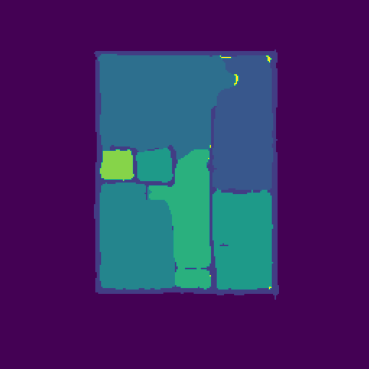
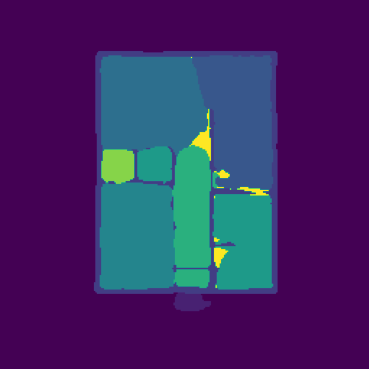
Correctly labeled renders and renderer now features a legend

diff --git a/tool/reconstruction/Renderer.py b/tool/reconstruction/Renderer.py
@@ -1,7 +1,8 @@
 import sys
 
 from PyQt5.QtWidgets import QApplication, QMainWindow, QOpenGLWidget, QVBoxLayout, QPushButton, QWidget
-from PyQt5.QtGui import QFont, QPainter  # Import QFont and QPainter
+from PyQt5.QtGui import QFont, QPainter, QColor  # Import QFont and QPainter
+from PyQt5.QtCore import Qt  # Import Qt constants
 from OpenGL.GL import *
 from OpenGL.GLU import *
 
@@ -25,10 +26,73 @@ class FloorPlanViewer(QOpenGLWidget):
         self.last_y = 0
         self.display_list = None
         self.offset_factor = 1.0
-    
+        self.zoom_factor = 1.0
+        self.pos_x = 0.0
+        self.pos_y = -25.0
+        self.pos_z = -1000.0
+        self.move_speed = 10.0
+
+        self.room_legend = [
+            ("Background", (0, 0, 0)),
+            ("Outdoor", (0.5, 0.5, 0.5)),
+            ("Wall", (0.8, 0.8, 0.8)),
+            ("Kitchen", (1, 1, 0)),
+            ("Living Room", (0, 1, 0)),
+            ("Bed Room", (1, 0, 0)),
+            ("Bath", (0, 0, 1)),
+            ("Entry", (1, 0, 1)),
+            ("Railing", (0.5, 0, 0.5)),
+            ("Storage", (0.7, 0.7, 0)),
+            ("Garage", (0.2, 0.2, 0.2)),
+            ("Undefined", (0, 1, 1)),
+        ]
+
+        self.icon_legend = [
+            ("No Icon", (0, 0, 0)),
+            ("Window", (0, 1, 1)),
+            ("Door", (0, 150/255, 75/255)),
+            ("Closet", (0, 0, 1)),
+            ("Electrical Applience", (1, 1, 0)),
+            ("Toilet", (1, 0, 1)),
+            ("Sink", (1, 1, 1)),
+            ("Sauna Bench", (0.5, 0.5, 0.5)),
+            ("Fire Place", (1, 0.5, 0)),
+            ("Bathtub", (0.9, 0.9, 0.9)),
+            ("Chimney", (0, 0.5, 1)),
+        ]
+
+        self.setFocusPolicy(Qt.StrongFocus)
+        self.setFocus()
+
+    def keyPressEvent(self, event):
+        key = event.key()
+        if key == Qt.Key_W:  # Move forward
+            self.pos_z += self.move_speed
+        elif key == Qt.Key_S:  # Move backward
+            self.pos_z -= self.move_speed
+        elif key == Qt.Key_A:  # Move left
+            self.pos_x += self.move_speed
+        elif key == Qt.Key_D:  # Move right
+            self.pos_x -= self.move_speed
+
+        self.update()
+    def wheelEvent(self, event):
+        delta = event.angleDelta().y()  # Get the scroll amount
+        if delta > 0:
+            self.zoom_factor /= 1.1  # Zoom in
+        else:
+            self.zoom_factor *= 1.1  # Zoom out
+
+        self.update()  # Trigger a repaint
+
     def initializeGL(self):
         glEnable(GL_DEPTH_TEST)
+        glDepthFunc(GL_LEQUAL)  # Accept fragment if it is closer to the camera
+        glClearDepth(1.0)       # Set the farthest depth value
+        glEnable(GL_BLEND)      # Enable transparency for QPainter
+        glBlendFunc(GL_SRC_ALPHA, GL_ONE_MINUS_SRC_ALPHA)
         self.create_display_list()
+
 
     def create_display_list(self):
         self.display_list = glGenLists(1)
@@ -94,11 +158,61 @@ class FloorPlanViewer(QOpenGLWidget):
                 self.draw_wall(wall)
         
         glEndList()
+        
+    def paintEvent(self, event):
+        super().paintEvent(event)  # Render OpenGL content first
+
+        glDisable(GL_DEPTH_TEST)  # Disable depth testing for 2D elements
+
+        painter = QPainter(self)
+        painter.setRenderHint(QPainter.Antialiasing)
+
+        # Draw the room legend (top-right)
+        margin = 10
+        room_x = self.width() - 200 - margin
+        room_y = margin
+        painter.setBrush(Qt.white)
+        painter.setOpacity(0.8)
+        painter.drawRect(
+            room_x - margin, 
+            room_y - margin, 
+            200 + 2 * margin, 
+            len(self.room_legend) * 25 + 2 * margin
+        )
+        painter.setOpacity(1.0)
+        for i, (name, color) in enumerate(self.room_legend):
+            painter.setBrush(QColor(*(int(c * 255) for c in color)))
+            painter.drawRect(room_x, room_y + i * 25, 20, 20)
+            painter.setPen(Qt.black)
+            painter.drawText(room_x + 30, room_y + i * 25 + 15, name)
+
+        # Draw the icon legend (top-left)
+        icon_x = margin
+        icon_y = margin
+        painter.setBrush(Qt.white)
+        painter.setOpacity(0.8)
+        painter.drawRect(
+            icon_x - margin, 
+            icon_y - margin, 
+            200 + 2 * margin, 
+            len(self.icon_legend) * 25 + 2 * margin
+        )
+        painter.setOpacity(1.0)
+        for i, (name, color) in enumerate(self.icon_legend):
+            painter.setBrush(QColor(*(int(c * 255) for c in color)))
+            painter.drawRect(icon_x, icon_y + i * 25, 20, 20)
+            painter.setPen(Qt.black)
+            painter.drawText(icon_x + 30, icon_y + i * 25 + 15, name)
+
+        painter.end()
+
+        glEnable(GL_DEPTH_TEST)  # Re-enable depth testing
+
 
     def paintGL(self):
         glClear(GL_COLOR_BUFFER_BIT | GL_DEPTH_BUFFER_BIT)
         glLoadIdentity()
-        glTranslatef(0, -25, -1000)
+        glTranslatef(self.pos_x, self.pos_y, self.pos_z * self.zoom_factor)  # Use position and zoom factor
         glRotatef(self.rot_x, 1, 0, 0)
         glRotatef(self.rot_y, 0, 1, 0)
 

diff --git a/tool/ui/MetricsUI.py b/tool/ui/MetricsUI.py
@@ -6,12 +6,14 @@ from PIL import Image
 from icecream import ic
 
 class MetricsUI(ctk.CTkFrame):
-    def __init__(self, root, metrics, COLOR_PRESETS):
+    def __init__(self, root, metrics, model_to_use, COLOR_PRESETS):
         super().__init__(root)
         self.winfo_toplevel().title("Metrics")
         self.configure(bg_color=COLOR_PRESETS.BG_COLOR, fg_color=COLOR_PRESETS.BG_COLOR)
+
         self.metrics = metrics
-        
+        self.model_to_use = model_to_use
+
         self._createWidgets()
         self.pack(expand=True, fill="both")
     
@@ -36,18 +38,22 @@ class MetricsUI(ctk.CTkFrame):
             metrics_frame.configure(fg_color="transparent", bg_color="transparent")
             metrics_frame.pack(padx=10, pady=10, anchor="center", side="left", expand=True)
 
-            ctk.CTkLabel(metrics_frame, text="DeepLabV3+" if i == 0 else "DeepLabV3+ w/ CA & SA", font=("Arial", 16, "bold")).grid(row=0, column=0, columnspan=2, pady=5)
+            if self.model_to_use < 2:
+                ctk.CTkLabel(metrics_frame, text="DeepLabV3+" if self.model_to_use == 0 else "DeepLabV3+ w/ CA & SA", font=("Arial", 16, "bold")).grid(row=0, column=0, columnspan=2, pady=5)
+            else:
+                ctk.CTkLabel(metrics_frame, text="DeepLabV3+" if i == 0 else "DeepLabV3+ w/ CA & SA", font=("Arial", 16, "bold")).grid(row=0, column=0, columnspan=2, pady=5)
             ctk.CTkLabel(metrics_frame, text="Class Pixel Accuracy", font=("Arial", 14, "bold")).grid(row=1, column=0, sticky="w")
             _list_metrics(metric_list)
 
 class SegmentationUI(ctk.CTkFrame):
-    def __init__(self, root, model_output_path, COLOR_PRESETS):
+    def __init__(self, root, model_output_path, model_to_use, COLOR_PRESETS):
         super().__init__(root)
         self.winfo_toplevel().title("Segmentation Maps")
         self.configure(bg_color=COLOR_PRESETS.BG_COLOR, fg_color=COLOR_PRESETS.BG_COLOR)
         
         self.size = (250, 250)
         self.output = model_output_path
+        self.model_to_use = model_to_use
 
         self._create_widgets()
                 
@@ -78,7 +84,10 @@ class SegmentationUI(ctk.CTkFrame):
             print(output.shape)
             _save_maps(output)
             
-            ctk.CTkLabel(images_frame, text="DeepLabV3+" if i == 0 else "DeepLabV3+ w/ CA & SA", font=("Arial", 16, "bold")).grid(row=0, column=0, columnspan=2, pady=5)
+            if self.model_to_use < 2:
+                ctk.CTkLabel(images_frame, text="DeepLabV3+" if self.model_to_use == 0 else "DeepLabV3+ w/ CA & SA", font=("Arial", 16, "bold")).grid(row=0, column=0, columnspan=2, pady=5)
+            else:
+                ctk.CTkLabel(images_frame, text="DeepLabV3+" if i == 0 else "DeepLabV3+ w/ CA & SA", font=("Arial", 16, "bold")).grid(row=0, column=0, columnspan=2, pady=5)
 
             self.seg_map_image = ctk.CTkImage(Image.open("maps/segmentation_map.png"), size=self.size)
             self.icon_map_image = ctk.CTkImage(Image.open("maps/icon_map.png"), size=self.size)

diff --git a/tool/ui/MainInterface.py b/tool/ui/MainInterface.py
@@ -20,7 +20,7 @@ class MainInterface():
         self.Vectorizer = RECONSTUCTION.Vectorizer()
         
         self.selected_floorplan = None
-        self.model_to_use = 1
+        self.model_to_use = 0
         # self.run_both_models = False
         self.show_core_elements_only = False
 
@@ -76,6 +76,7 @@ class MainInterface():
                                dropdown_text_color="black", dropdown_font=CTkFont("Arial", 12, weight="bold"),
                                dropdown_fg_color="#1f6aa5", dropdown_hover_color=self.COLOR_PRESETS.BTN_HOVER_COLOR,
                                command=lambda selected_model: [self._setParameter("model", models_available.index(selected_model)), self._reRender(main_frame)])
+        select_model.set(models_available[self.model_to_use])
         select_model.place(relx=0.73, rely=0.8, relwidth=0.4, anchor="center")
 
         see_details_btn = CTkButton(main_frame, 
@@ -177,13 +178,13 @@ class MainInterface():
         model_outputs = self.output
         # print(model_outputs.shape)
         # ic(torch.load(model_output_path))
-        self.root.seeSegMaps(model_outputs)
+        self.root.seeSegMaps(model_outputs, self.model_to_use)
         # self.root.seeDetails(self.output, self.labels)
         
     def _seeDetails(self):
         metric_outputs = self.labels
         print(metric_outputs)
-        self.root.seeDetails(metric_outputs)
+        self.root.seeDetails(metric_outputs, self.model_to_use)
 
     def _generateModel(self):
         device = "cuda" if torch.cuda.is_available() else "cpu"

diff --git a/tool/ui/RootUI.py b/tool/ui/RootUI.py
@@ -22,8 +22,8 @@ class RootUI(CTk):
     def loadMainInterface(self):
         self.main_interface = MainInterface(self, self.PATHS, self.RECONSTRUCTION)
 
-    def seeSegMaps(self, output):
-        SegmentationUI(CTkToplevel(self), output, self.PATHS.COLOR_PRESETS)
+    def seeSegMaps(self, output, model):
+        SegmentationUI(CTkToplevel(self), output, model, self.PATHS.COLOR_PRESETS)
 
-    def seeDetails(self, tensor):
-        MetricsUI(CTkToplevel(self), tensor, self.PATHS.COLOR_PRESETS)
+    def seeDetails(self, tensor, model):
+        MetricsUI(CTkToplevel(self), tensor, model, self.PATHS.COLOR_PRESETS)

diff --git a/tool/reconstruction/Vectorizer.py b/tool/reconstruction/Vectorizer.py
@@ -229,7 +229,7 @@ class Vectorizer():
         """
         torch_file: Loaded PyTorch tensor with 23 channels [23, 256, 256]
         """
-        scale_factor = 3
+        scale_factor = 2
         
         # Load the PyTorch tensor file
         segmentation_maps = torch_file
